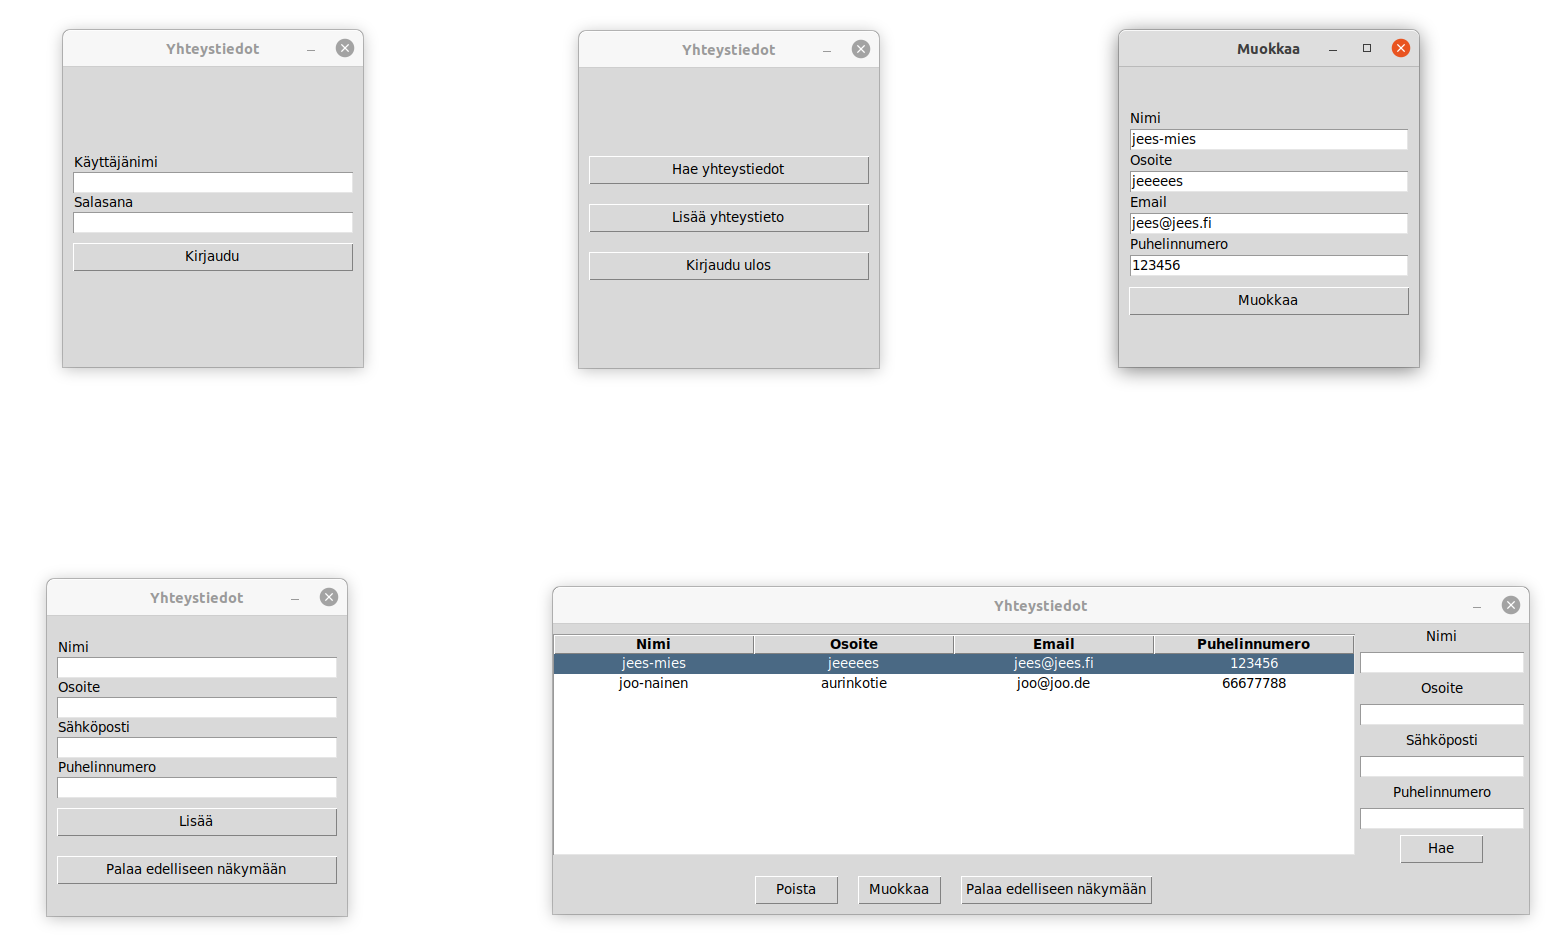
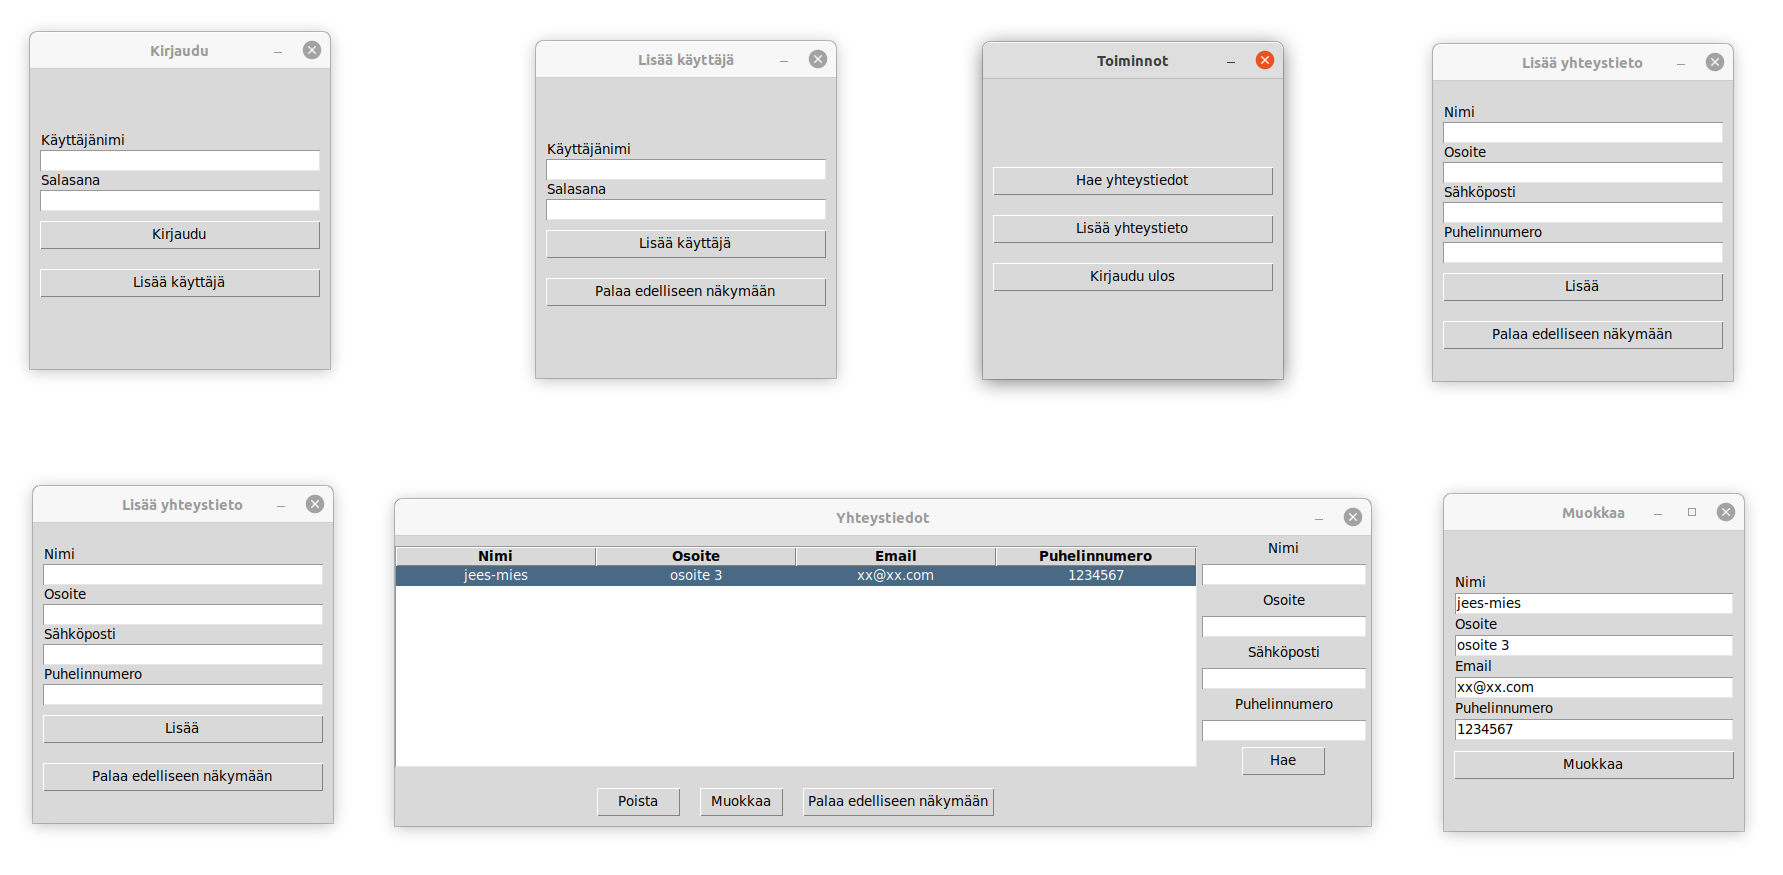
Update ui

diff --git a/src/ui/add_user.py b/src/ui/add_user.py
@@ -1,4 +1,5 @@
 from tkinter import ttk
+from tkinter.constants import S
 from tkinter.messagebox import showwarning, showinfo
 
 
@@ -36,6 +37,7 @@ class AddUser:
             )
 
     def start_add_user(self):
+        self.root.title("Lisää käyttäjä")
 
         self._insert_user = ttk.Frame(master=self.root)
         self._insert_user.pack(padx=10, pady=10, fill='x', expand=True)

diff --git a/src/storage/handle_users.py b/src/storage/handle_users.py
@@ -11,7 +11,7 @@ class HandleUsers:
         self.database = database
 
     def _get_user(self, name: str):
-        """Palauttaa parametrina annetun käyttäjän id-numeron """
+        """Palauttaa parametrina annetun käyttäjän tiedot """
 
         get_user = self.database.execute(
             'SELECT id, name, password FROM Users WHERE name like ?', [name]).fetchall()

diff --git a/src/ui/functionality.py b/src/ui/functionality.py
@@ -14,6 +14,7 @@ class Functionality:
 
     def start_functionality(self):
         self.root.geometry('300x300')
+        self.root.title("Toiminnot")
         self._functionality = ttk.Frame(master=self.root)
         self._functionality.pack(padx=10, pady=10, fill='x', expand=True)
 

diff --git a/src/ui/show_contacts.py b/src/ui/show_contacts.py
@@ -109,6 +109,7 @@ class ShowContacts:
         self.start_show_contacts()
 
     def start_show_contacts(self):
+        self.root.title("Yhteystiedot")
         self.root.geometry('')
         self._show_contacts = ttk.Frame(master=self.root)
         self._show_contacts.grid()

diff --git a/src/ui/add_contact.py b/src/ui/add_contact.py
@@ -69,6 +69,7 @@ class AddContact:
         return False
 
     def start_add_contact(self):
+        self.root.title("Lisää yhteystieto")
         self._add_contact = ttk.Frame(master=self.root)
         self._add_contact.pack(padx=10, pady=10, fill='x', expand=True)
 

diff --git a/src/ui/login.py b/src/ui/login.py
@@ -41,6 +41,7 @@ class Login:
             self.functionality()
 
     def start_login(self):
+        self.root.title("Kirjaudu")
 
         self._login = ttk.Frame(master=self.root)
         self._login.pack(padx=10, pady=10, fill='x', expand=True)
